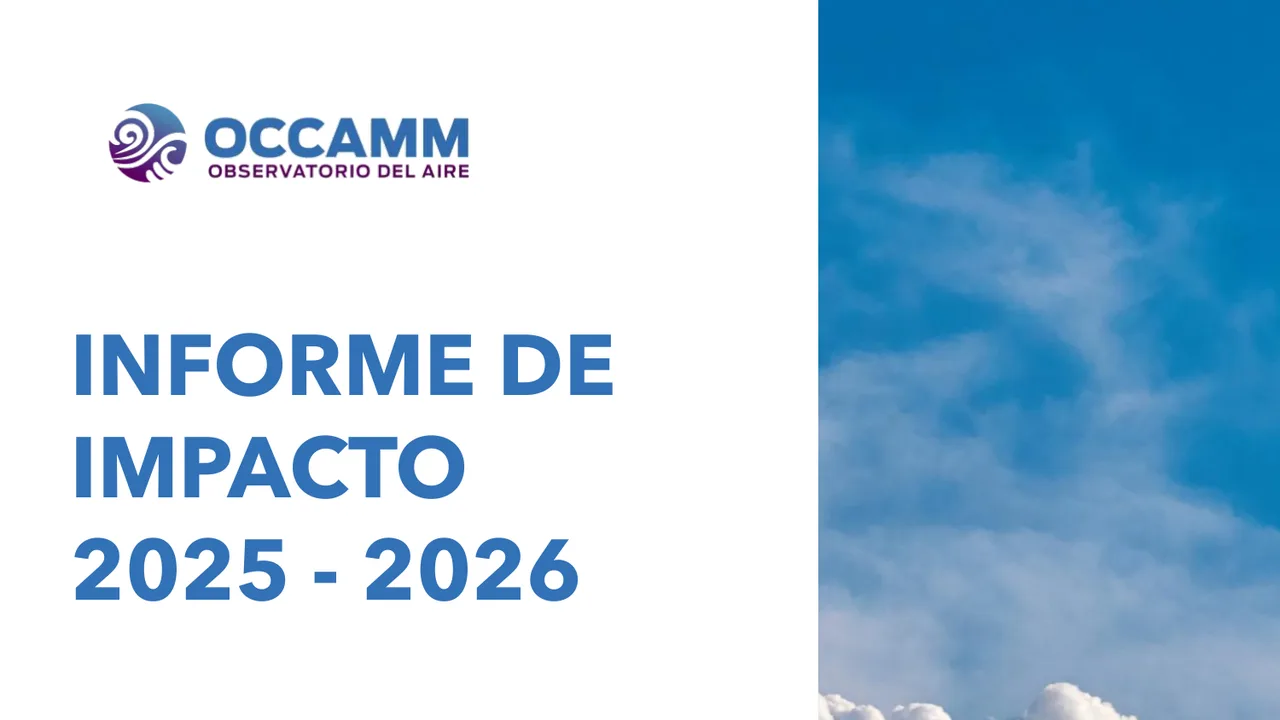
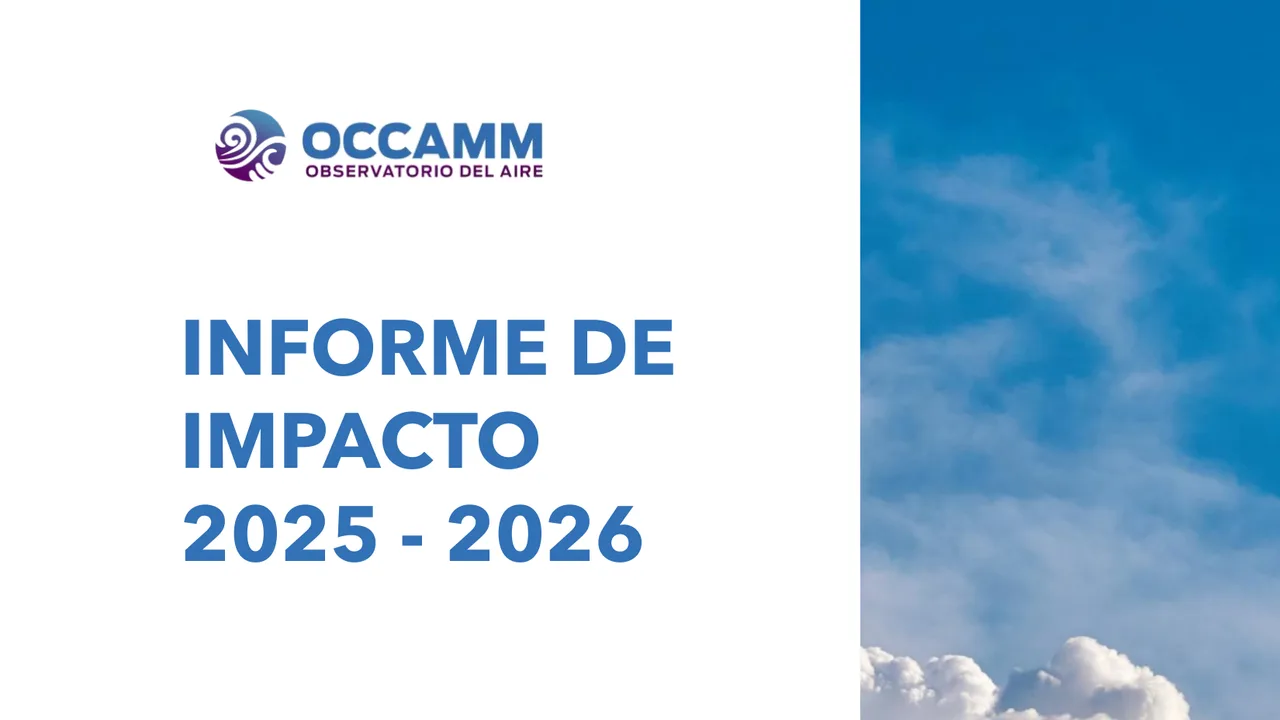
publicaciones: document link cards show the whole cover; impact report cover with a left margin

diff --git a/app/api/og/publicaciones/[slug]/route.tsx b/app/api/og/publicaciones/[slug]/route.tsx
@@ -18,8 +18,9 @@ import { SECTION_CARD, SectionCard } from "@/lib/og-section-card";
 const { width: W, height: H } = SECTION_CARD;
 const CACHE = "public, max-age=0, s-maxage=86400, stale-while-revalidate=604800";
 
-// A document's page on the right: 420x540, 64px from the edge, centered.
-const PAGE = { width: 420, height: 540, right: 64 };
+// A document's cover on the right, whole: covers are 16:9, so a 16:9
+// frame, 64px from the edge, centered.
+const PAGE = { width: 560, height: 315, right: 64 };
 
 // The column card: page gray, 64px sides, the cover's band 1072 wide.
 const PAD = 64;
@@ -126,7 +127,8 @@ export async function GET(request: Request, { params }: { params: Promise<{ slug
   const [logo, fonts, cover] = await Promise.all([
     loadOgLogo(request.url, ogLogoAt(65)),
     loadInterFonts(p.title),
-    loadJpeg(p.image, request.url, PAGE.width, PAGE.height, true),
+    // An infographic's cover is the top of a tall poster: keep its top.
+    loadJpeg(p.image, request.url, PAGE.width * 2, PAGE.height * 2, p.tipo === "infografia"),
   ]);
 
   return new ImageResponse(
@@ -152,8 +154,8 @@ export async function GET(request: Request, { params }: { params: Promise<{ slug
           ) : null
         }
         headline={p.title}
-        // Clear of the page: it starts 64 + 420 from the right edge.
-        textWidth={W - PAGE.right - PAGE.width - 64 - 56}
+        // Clear of the cover: it starts 64 + 560 from the right edge.
+        textWidth={W - PAGE.right - PAGE.width - 64 - 48}
         logo={logo}
       />
     ),

diff --git a/app/publicaciones/[slug]/page.tsx b/app/publicaciones/[slug]/page.tsx
@@ -60,7 +60,7 @@ export async function generateMetadata({ params }: Props): Promise<Metadata> {
     title: p.tipo === "columna" ? `${p.title}, por ${p.author}` : p.title,
     description: p.summary ?? `${byline(p)}, ${displayDate(p)}.`,
     path: `/publicaciones/${p.slug}`,
-    images: [{ url: `/api/og/publicaciones/${p.slug}?d=6`, width: 1200, height: 630, alt: p.title }],
+    images: [{ url: `/api/og/publicaciones/${p.slug}?d=7`, width: 1200, height: 630, alt: p.title }],
   });
   // Google Scholar's tags, for the documents (the columns are news).
   if (p.tipo !== "columna" && p.file) {

diff --git a/lib/og-section-card.tsx b/lib/og-section-card.tsx
@@ -23,7 +23,7 @@ const WRAPPED = { wash: 860, text: 720 };
 // A wrapped headline's size: the section cards' 76px while it fits in about
 // three lines, smaller for a long title so it stays clear of the logo.
 function wrappedSize(text: string): number {
-  return text.length <= 36 ? 76 : text.length <= 70 ? 60 : 48;
+  return text.length <= 36 ? 76 : text.length <= 70 ? 60 : text.length <= 90 ? 48 : 42;
 }
 
 export function SectionCard({
